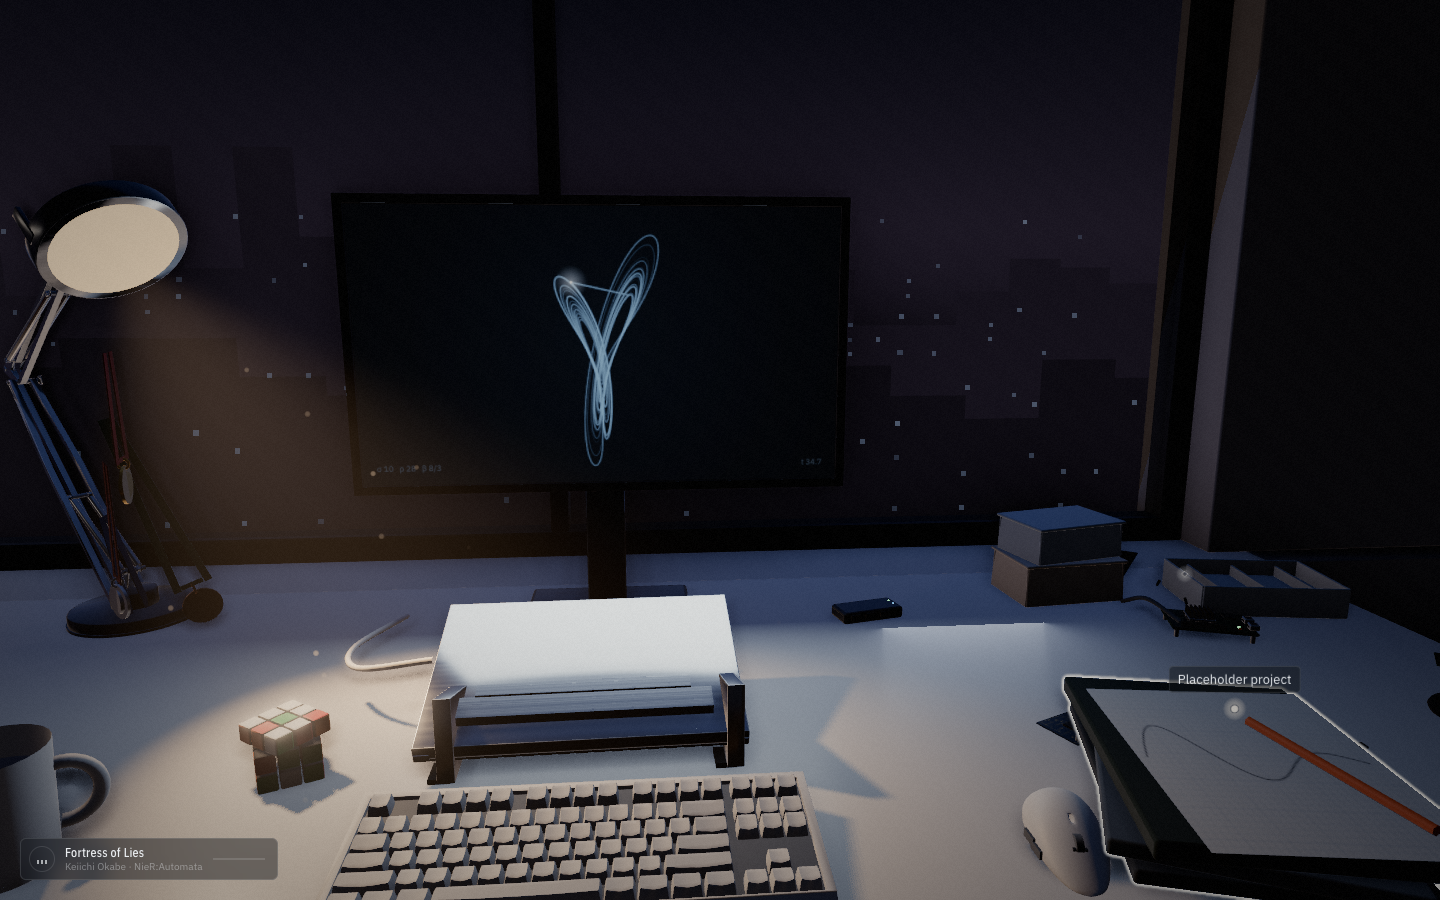
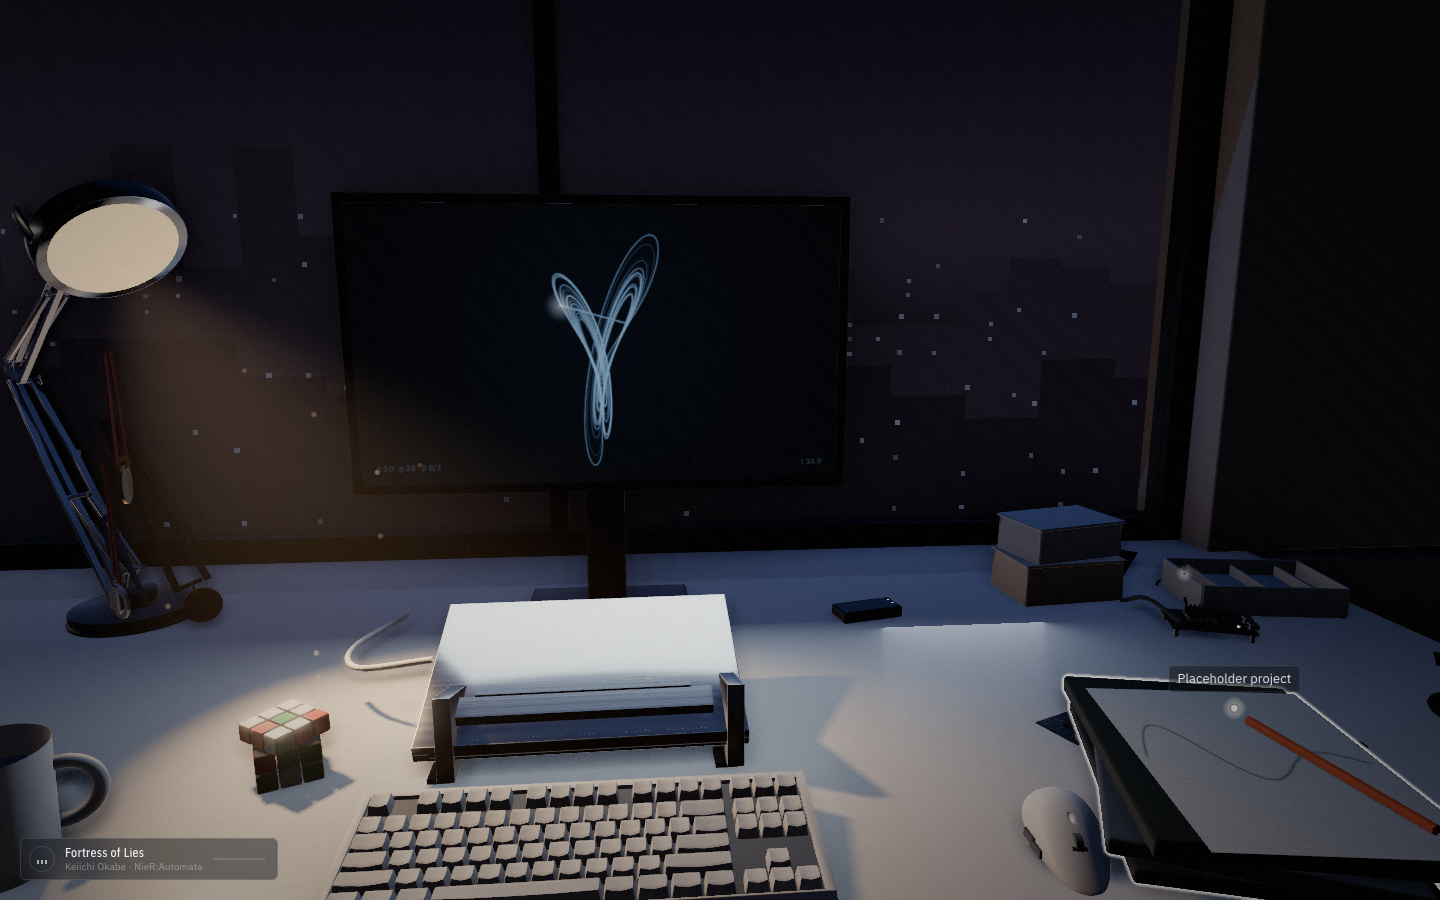
Fix the speedcube's daylight washout at its cause: bloom
Measured on a parked daylight close-up (mean saturation of the cube's
coloured faces): default 0.13, volumetrics off 0.13, grade off 0.10,
bloom off 0.75. The "haze" was bloom, not the atmosphere.

Two things combined. The threshold was applied to the pre-exposure HDR
image, so at night (exposure 1.0) only lights crossed it, but by day
(exposure 0.47) the whole sunlit desk did. And the stock level weights
are near-equal, so the widest blur levels laid that energy over
everything nearby as a milky veil.

The threshold is now divided by exposure, so it means the same on-screen
brightness at every hour, and the blur levels are weighted toward the
tight ones that make halos rather than the wide ones that make the veil.
Cube saturation 0.17 -> 0.47 (0.70 with no bloom), without neon: the
night frame is unchanged to within grain, dusk keeps its warm sun glow,
day reads crisper.

Tried and rejected on measurement: energy-above-threshold extraction and
lower thresholds (worse fidelity or a glowing MacBook lid at night).

Tooling: cube-color, bloom-score (.mjs + .py), detail-shot; debug
switches ?grade=0 and ?aoscale.

Claude-Session: https://claude.ai/code/session_01Fp4Co9nnxEnUTGsgahJg8Z

diff --git a/src/scene/renderer.ts b/src/scene/renderer.ts
@@ -172,7 +172,8 @@ export function createRenderer(
   if (params.get('aoview') === 'ao') gtao.output = GTAOPass.OUTPUT.Denoise;
   // AO is low-frequency: render it at CSS-pixel density, not device density, so retina screens
   // get the same AO detail per point as standard ones without paying 2.25× the fill.
-  const aoScale = () => (aoParam === 'full' ? 1 : aoParam === 'half' ? 0.5 : 1 / pixelRatio);
+  const aoCss = Number(params.get('aoscale'));
+  const aoScale = () => (aoParam === 'full' ? 1 : aoParam === 'half' ? 0.5 : (aoCss > 0 ? aoCss : 1) / pixelRatio);
   const baseSetSize = gtao.setSize.bind(gtao);
   gtao.setSize = (width: number, height: number) =>
     baseSetSize(Math.max(1, Math.round(width * aoScale())), Math.max(1, Math.round(height * aoScale())));
@@ -208,11 +209,31 @@ export function createRenderer(
     }) as unknown as typeof pass.render;
   }
 
-  const bloom = new UnrealBloomPass(new THREE.Vector2(w, h), 0.3, 0.5, 1.45);
+  /**
+   * Bloom threshold in display terms. The bloom pass sees the scene-referred HDR image before
+   * exposure, so a fixed threshold meant "bright" changed with the hour: at night (exposure 1.0)
+   * only the lamp, LEDs and screen crossed it, but by day (exposure 0.47) the whole sunlit desk
+   * did. Dividing by exposure keeps it meaning the same brightness on screen at every hour.
+   */
+  const BLOOM_THRESHOLD = 1.45;
+  /**
+   * Weight of each blur level, tightest first. Stock weights are near-equal, and the widest
+   * levels spread a large bright area over everything around it: by day that laid a milky veil
+   * across the desk and took the speedcube's faces from strong colour to pastel at close range.
+   * The halo around a light comes from the tight levels, the veil from the wide ones, so the
+   * tight ones carry slightly more and the wide ones almost nothing. Measured with
+   * scripts/bloom-score: cube face saturation in a daylight close-up 0.17 → 0.47 (0.70 with no
+   * bloom at all), with the night frame unchanged to within grain.
+   */
+  const BLOOM_LEVELS = [1.2, 0.8, 0.25, 0.08, 0.05];
+  const bloom = new UnrealBloomPass(new THREE.Vector2(w, h), 0.3, 0.5, BLOOM_THRESHOLD);
   bloom.enabled = params.get('bloom') !== '0';
+  const tints = (bloom as unknown as { bloomTintColors: THREE.Vector3[] }).bloomTintColors;
+  BLOOM_LEVELS.forEach((v, i) => tints[i].setScalar(v));
   composer.addPass(bloom);
   composer.addPass(new OutputPass());
   const grade = new ShaderPass(GradeShader);
+  grade.enabled = params.get('grade') !== '0';
   composer.addPass(grade);
 
   // Debug: GPU time per pass (?gpu). Wraps each pass, shadow-map rendering and env capture.
@@ -277,6 +298,7 @@ export function createRenderer(
     renderer.toneMappingExposure = state.exposure;
     scene.environmentIntensity = state.env;
     bloom.strength = state.bloom;
+    bloom.threshold = BLOOM_THRESHOLD / state.exposure;
     (scene.background as THREE.Color).copy(state.sky);
     fadeColor.copy(state.sky);
     const fog = scene.fog as THREE.FogExp2;

diff --git a/scripts/bloom-score.py b/scripts/bloom-score.py
@@ -1,0 +1,23 @@
+# Companion to bloom-score.mjs. Usage: python3 scripts/bloom-score.py <outDir> <reference> <nobloom> names...
+import sys, colorsys
+from PIL import Image, ImageChops
+out, ref, nob, *names = sys.argv[1:]
+cube_ref = Image.open(f'{out}/cube-{nob}.png').convert('RGB')
+w, h = cube_ref.size
+px = cube_ref.load()
+mask = [(x, y) for y in range(0, h, 2) for x in range(0, w, 2)
+        if (lambda hls: hls[2] > 0.45 and 0.12 < hls[1] < 0.85)(colorsys.rgb_to_hls(*[c / 255 for c in px[x, y]]))]
+def sat(img):
+    p = img.load(); s = 0
+    for x, y in mask: s += colorsys.rgb_to_hls(*[c / 255 for c in p[x, y]])[2]
+    return s / len(mask)
+def diff(a, b):
+    d = ImageChops.difference(a.convert('L'), b.convert('L')).crop((0, 0, a.width, a.height - 70))
+    v = list(d.get_flattened_data()); return sum(v) / len(v)
+print(f"{'variant':34s} cube-sat  night-diff  dusk-diff  day-diff")
+for n in [ref, nob] + names:
+    c = sat(Image.open(f'{out}/cube-{n}.png').convert('RGB'))
+    nd = diff(Image.open(f'{out}/night-{n}.png'), Image.open(f'{out}/night-{ref}.png'))
+    dd = diff(Image.open(f'{out}/dusk-{n}.png'), Image.open(f'{out}/dusk-{ref}.png'))
+    da = diff(Image.open(f'{out}/day-{n}.png'), Image.open(f'{out}/day-{ref}.png'))
+    print(f'{n:34s} {c:.3f}     {nd:6.2f}      {dd:6.2f}     {da:6.2f}')

diff --git a/perf/LOG.md b/perf/LOG.md
@@ -64,3 +64,18 @@ What: the dust shader was never warmed on a daytime arrival (hidden while the la
 the first dusk compiled it mid-frame: 50–215 ms. Warm-up now forces it visible.
 Measured: `scripts/compile-watch.mjs` — zero programs compiled after load from start hours 6,
 13 and 21 across a 24 h sweep, all hovers and the shelf (was +1 at hour 16.5).
+
+## Visual fix: speedcube washout in daylight (not a performance change)
+
+Cause, measured on a parked daylight close-up (`scripts/cube-color.mjs`, mean HLS saturation of
+the cube's coloured faces): default 0.13 · volumetrics off 0.13 · grade off 0.10 · **bloom off
+0.75**. Not the atmosphere — bloom. Its threshold applied to the pre-exposure HDR image, so by day
+(exposure 0.47) the whole sunlit desk crossed it, and near-equal weights on the widest blur levels
+spread that over everything nearby.
+
+Fix: threshold divided by exposure (means the same on-screen brightness every hour) and per-level
+weights `[1.2, 0.8, 0.25, 0.08, 0.05]` — halos come from tight levels, the veil from wide ones.
+Rejected on measurement: energy-above-threshold extraction (fidelity 0.20–0.27 and changed the
+night look), lower thresholds (made the monitor-lit MacBook lid bloom).
+Scored with `scripts/bloom-score.mjs` + `.py`: cube saturation 0.17 → 0.47 (0.70 with no bloom);
+night frame difference 2.16 — the same as grain/dust noise (bloom-off vs old is 2.26).
